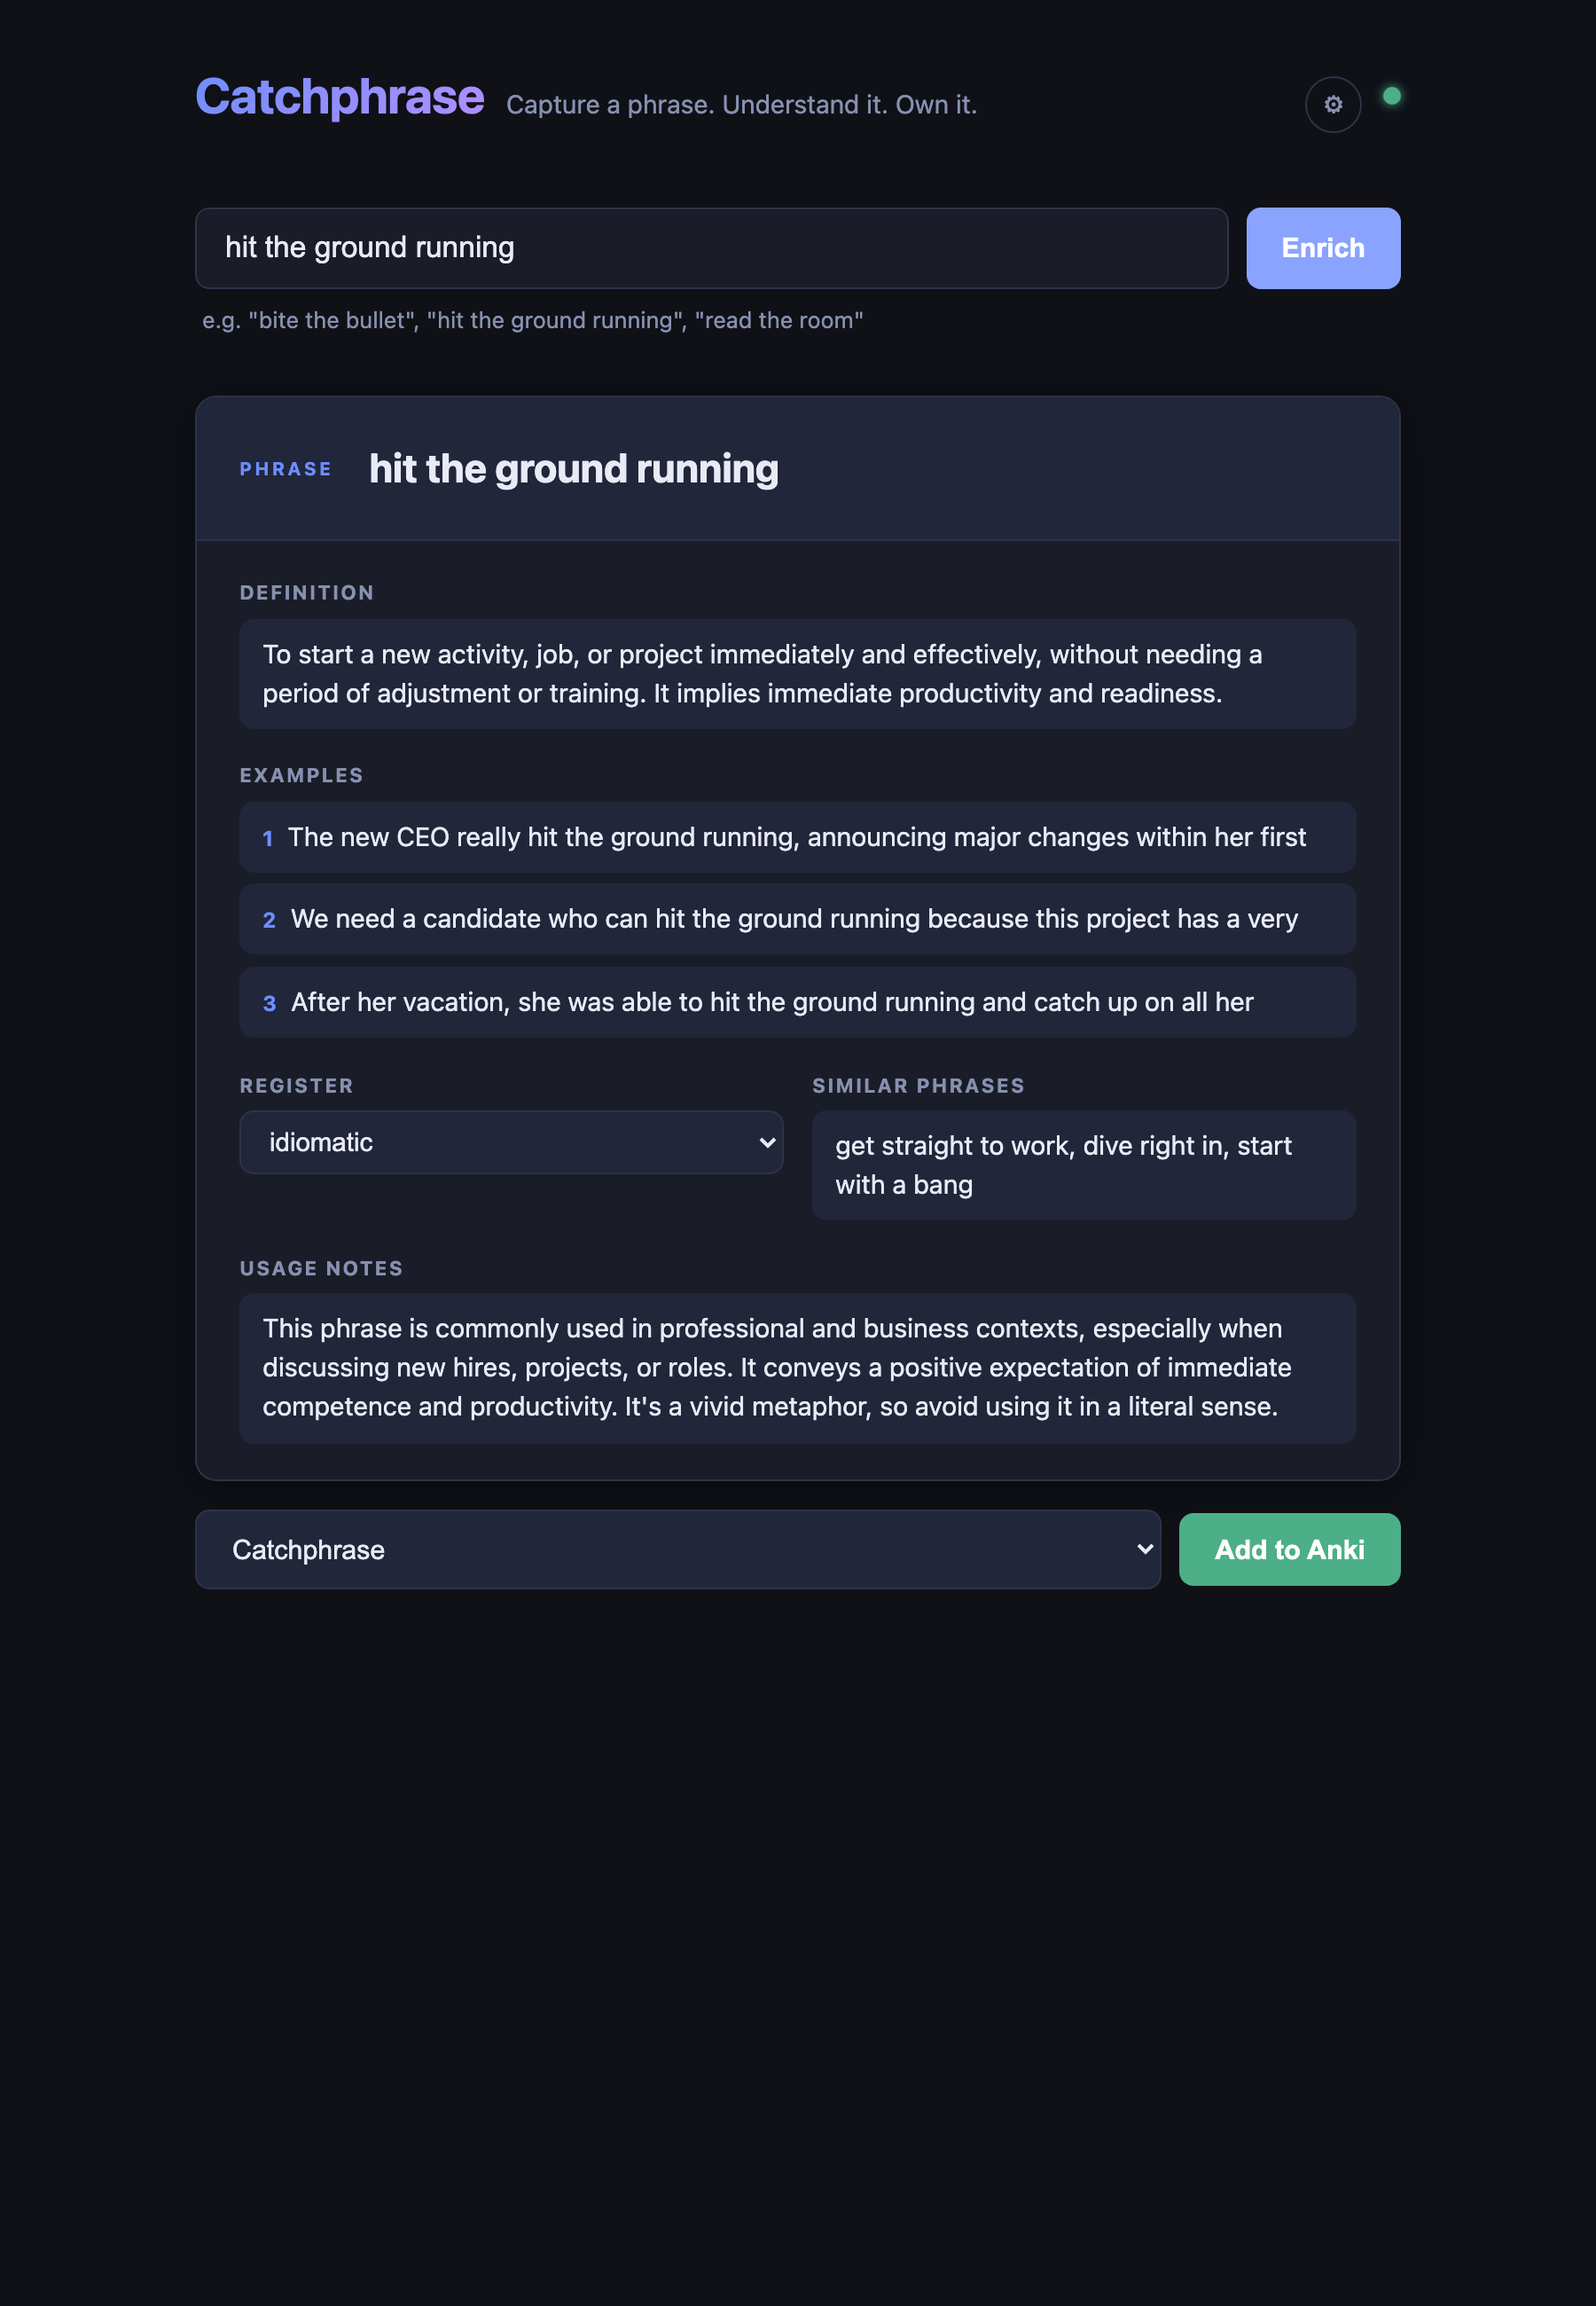
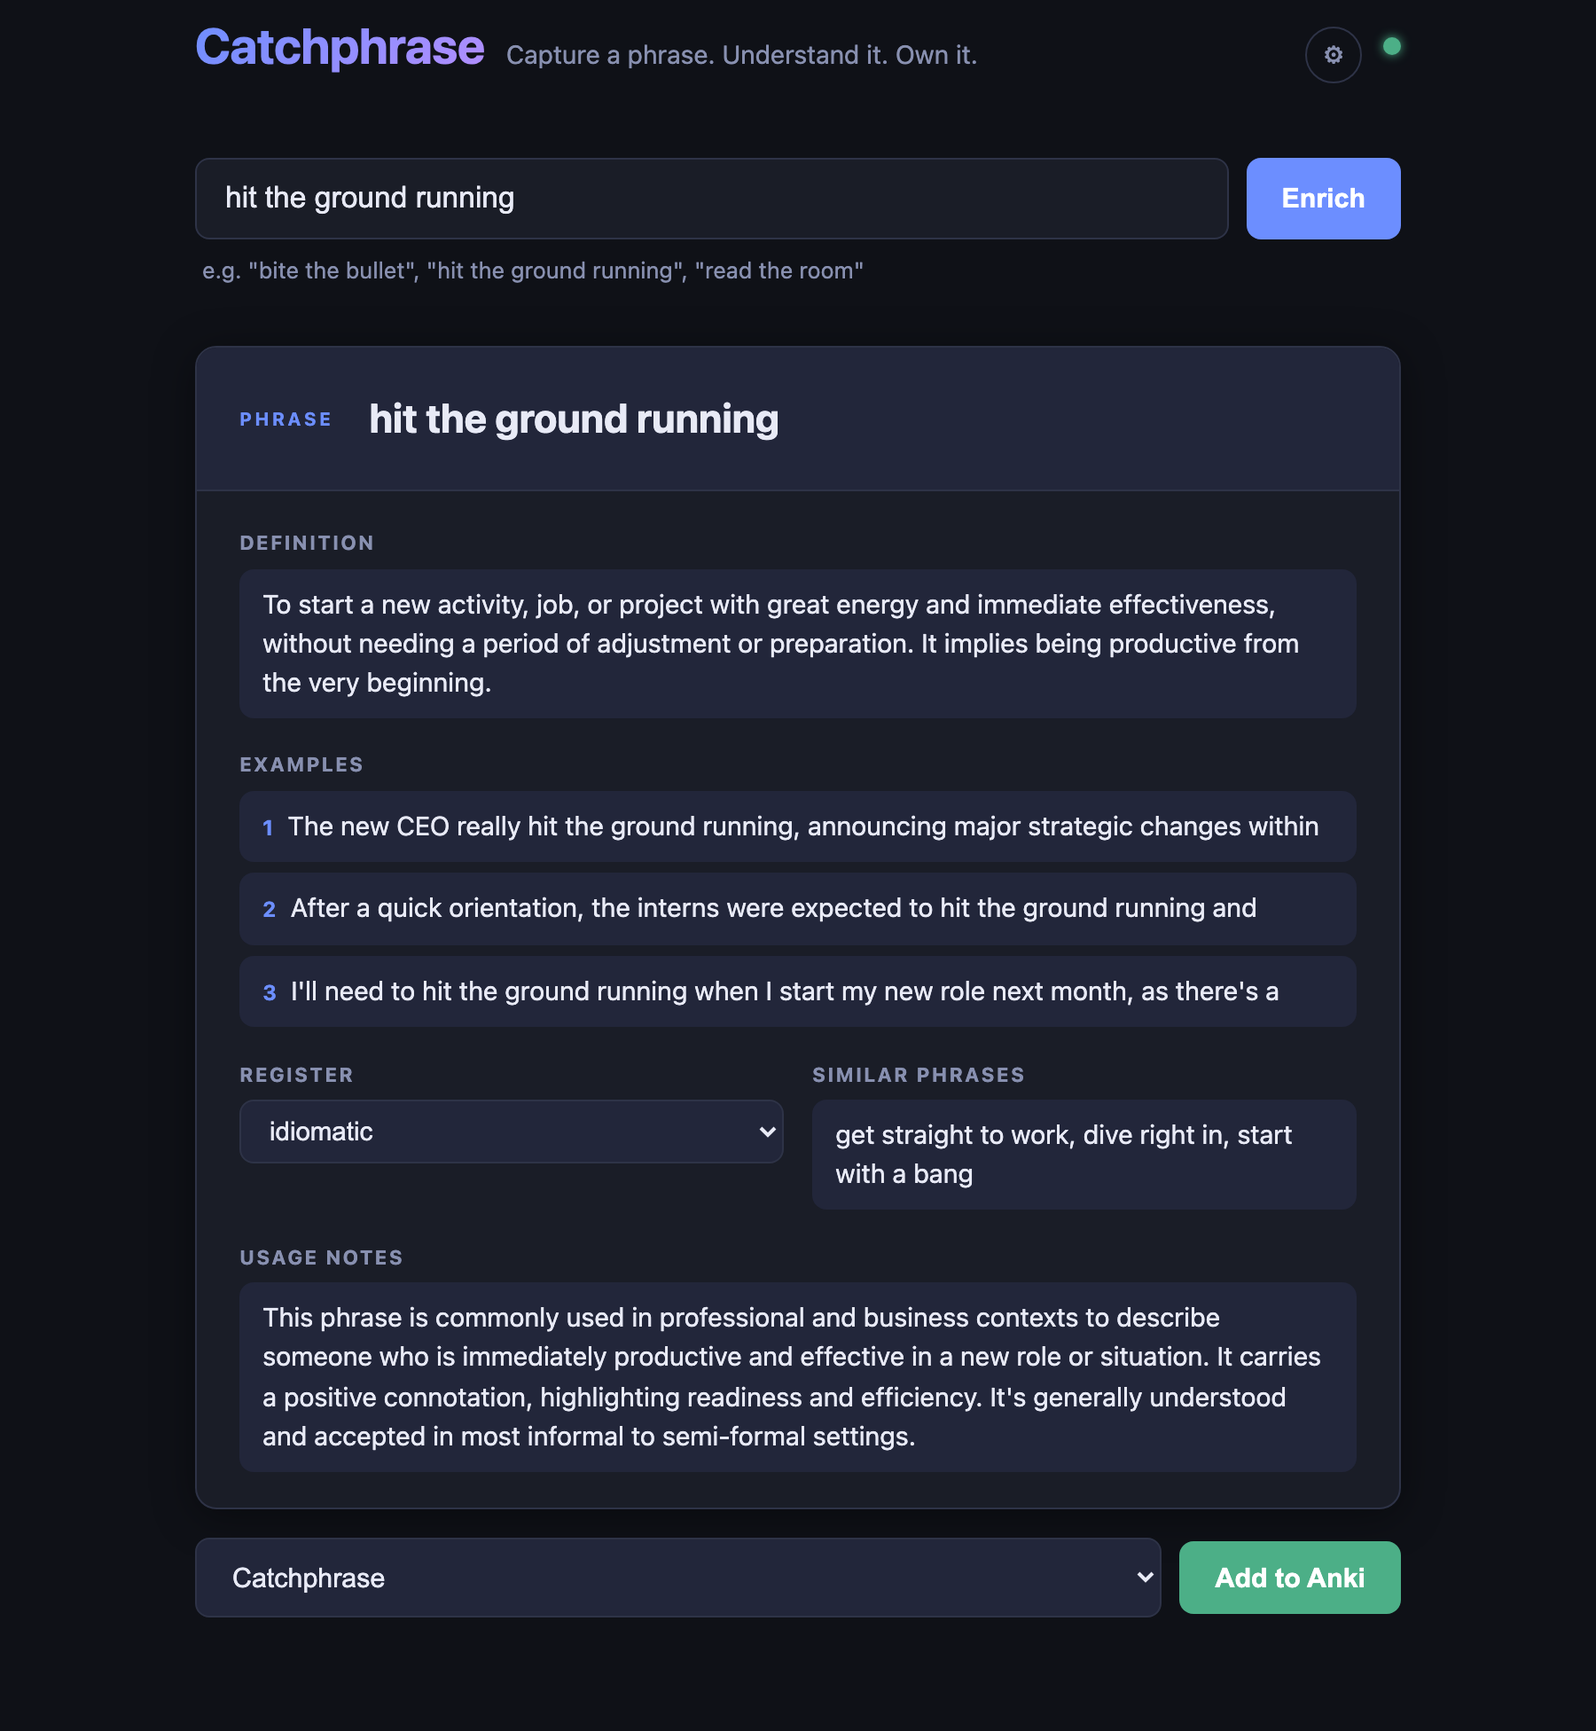
Tighten screenshot crop and rewrite README hook
Crop the demo screenshot to the actual card content (was including a tall
empty area below because of body min-height: 100vh).

Rewrite the README intro to lead with the pain point — Anki's card-creation
flow is hostile to capturing phrases in-the-moment — instead of describing
features. Sells the "frictionless capture" value before listing how it works.

Changed region(s): [[0.1244, 0.0312, 0.9022, 0.9375], [0.1244, 0.0, 0.5911, 0.0625]]

diff --git a/scripts/capture_demo.py b/scripts/capture_demo.py
@@ -13,7 +13,7 @@ async def main():
     OUT.parent.mkdir(exist_ok=True)
     async with async_playwright() as p:
         browser = await p.chromium.launch()
-        ctx = await browser.new_context(viewport={"width": 900, "height": 1300}, device_scale_factor=2)
+        ctx = await browser.new_context(viewport={"width": 900, "height": 900}, device_scale_factor=2)
         page = await ctx.new_page()
 
         await page.goto("http://localhost:7823")
@@ -26,7 +26,13 @@ async def main():
         await page.wait_for_selector("#card-section:not(.hidden)", timeout=30_000)
         await page.wait_for_timeout(500)  # settle animations
 
-        await page.screenshot(path=str(OUT), full_page=True)
+        # Clip to the actual #app content so we don't capture the empty min-height area below.
+        box = await page.evaluate(
+            "() => { const r = document.getElementById('app').getBoundingClientRect();"
+            "       return { x: 0, y: 0, w: window.innerWidth, h: Math.ceil(r.bottom + 24) }; }"
+        )
+        await page.set_viewport_size({"width": box["w"], "height": box["h"]})
+        await page.screenshot(path=str(OUT), full_page=False)
         await browser.close()
         print(f"saved {OUT}")
 

diff --git a/README.md b/README.md
@@ -1,15 +1,21 @@
 # Catchphrase
 
-Capture English phrases and idioms, enrich them with AI, and send the cards to Anki.
+**The frictionless way to remember English phrases and idioms.**
+
+You hear a great phrase — "*read the room*", "*hit the ground running*" — and you want to actually *use* it next time. So you reach for Anki. Then you remember: Anki is a spaced-repetition powerhouse, but its card-creation flow is brutal. Note types. Field templates. CSS for styling. Manual definitions. Sourcing example sentences. By the time you finish one card, the moment has passed.
+
+**Catchphrase removes every step between *"that's a cool phrase"* and *"it's on my phone, ready to drill."***
 
 ![Catchphrase demo](docs/screenshot.png)
 
 ## How it works
 
 1. Type a phrase ("bite the bullet", "read the room"…)
-2. **Enrich** — Gemini fills in definition, 3 example sentences, register, usage notes, and similar phrases
-3. Edit anything inline
-4. **Add to Anki** — card lands in your `Catchphrase` deck and auto-syncs to AnkiWeb
+2. **Enrich** — Gemini fills in a clean definition, 3 natural example sentences, register, usage notes, and similar phrases
+3. Edit anything inline if you don't like the AI's take
+4. **Add to Anki** — card lands in your `Catchphrase` deck and auto-syncs to AnkiWeb, ready on your phone in seconds
+
+No note-type setup. No template editing. No copy-pasting from dictionaries. Just capture → enrich → send.
 
 ## Setup
 
